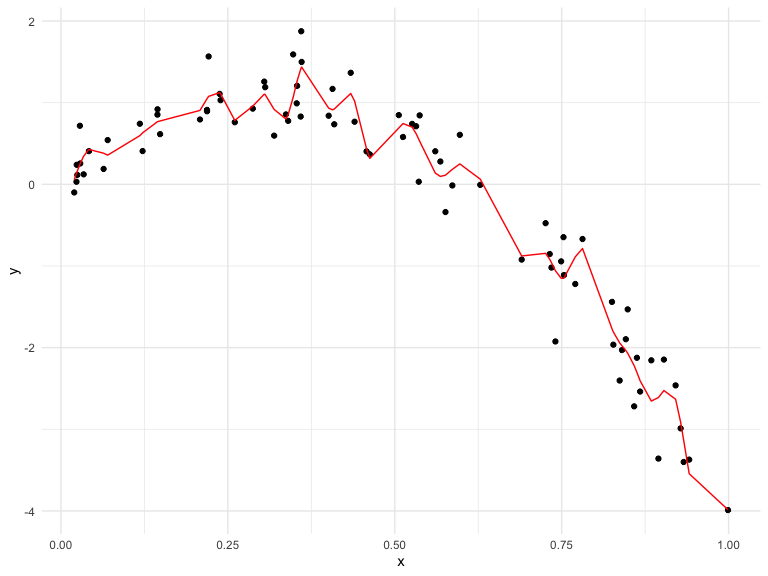
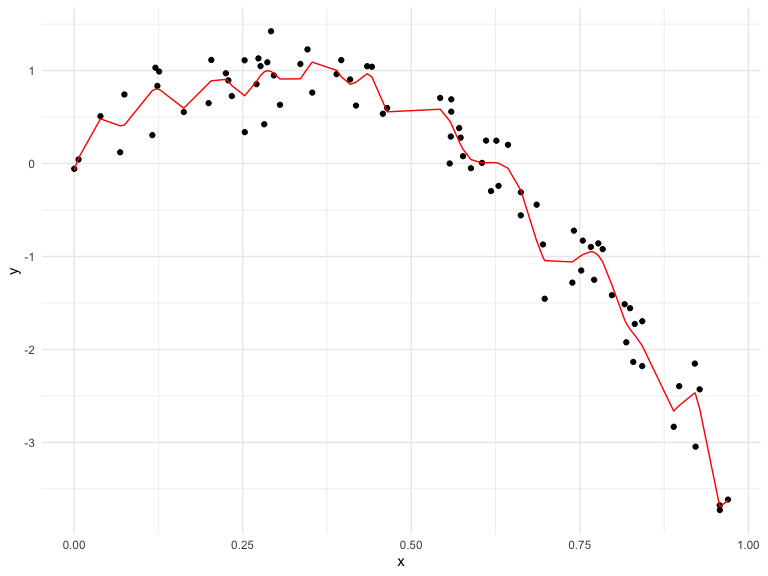
cross validation using modelr

diff --git a/cross_validation.md b/cross_validation.md
@@ -114,16 +114,112 @@ Look at prediction accuracy
 rmse(linear_mod, test_df)
 ```
 
-    ## [1] 0.7538765
+    ## [1] 0.7116577
 
 ``` r
 rmse(smooth_mod, test_df)
 ```
 
-    ## [1] 0.2374576
+    ## [1] 0.3714509
 
 ``` r
 rmse(wiggly_mod, test_df)
 ```
 
-    ## [1] 0.2538881
+    ## [1] 0.4105764
+
+## Cross validation using `modelr`
+
+``` r
+cv_df = 
+  crossv_mc(nonlin_df, 100)
+```
+
+What is happening here …
+
+``` r
+cv_df %>% 
+  pull(train) %>% .[[1]] %>% as_tibble()
+```
+
+    ## # A tibble: 79 x 3
+    ##       id      x      y
+    ##    <int>  <dbl>  <dbl>
+    ##  1     1 0.276   1.05 
+    ##  2     3 0.629  -0.240
+    ##  3     4 0.0746  0.743
+    ##  4     5 0.824  -1.56 
+    ##  5     6 0.571   0.381
+    ##  6     8 0.336   1.07 
+    ##  7     9 0.768  -1.52 
+    ##  8    10 0.346   1.23 
+    ##  9    11 0.234   0.725
+    ## 10    12 0.816  -1.51 
+    ## # … with 69 more rows
+
+``` r
+cv_df = 
+  cv_df %>% 
+  mutate(
+    train = map(train, as_tibble),
+    test = map(test, as_tibble)
+  )
+```
+
+Let’s try to fit models and get RMSEs for them
+
+``` r
+cv_df = 
+  cv_df %>% 
+  mutate(
+    linear_mod = map(.x = train, ~lm(y ~ x, data = .x)),
+    smooth_mod = map(.x = train, ~gam(y ~ s(x), data = .x)),
+    wiggly_mod = map(.x = train, ~gam(y ~ s(x, k = 30), sp = 10e-6, data = .x))
+  ) %>% 
+  mutate(
+    rmse_linear = map2_dbl(.x = linear_mod, .y = test, ~rmse(model = .x, data = .y)),
+    rmse_smooth = map2_dbl(.x = smooth_mod, .y = test, ~rmse(model = .x, data = .y)),
+    rmse_wiggly = map2_dbl(.x = wiggly_mod, .y = test, ~rmse(model = .x, data = .y))
+  )
+```
+
+what do these results say about the model choices?
+
+``` r
+cv_df %>% 
+  select(starts_with("rmse")) %>% 
+  pivot_longer(
+    everything(),
+    names_to = "model",
+    values_to = "rmse",
+    names_prefix = "rmse_"
+  ) %>% 
+  ggplot(aes(x = model, y = rmse)) +
+  geom_violin()
+```
+
+<img src="cross_validation_files/figure-gfm/unnamed-chunk-12-1.png" width="90%" />
+
+compute average
+
+``` r
+cv_df %>% 
+  select(starts_with("rmse")) %>% 
+  pivot_longer(
+    everything(),
+    names_to = "model",
+    values_to = "rmse",
+    names_prefix = "rmse_"
+  ) %>% 
+  group_by(model) %>% 
+  summarize(avg_rmse = mean(rmse))
+```
+
+    ## `summarise()` ungrouping output (override with `.groups` argument)
+
+    ## # A tibble: 3 x 2
+    ##   model  avg_rmse
+    ##   <chr>     <dbl>
+    ## 1 linear    0.743
+    ## 2 smooth    0.317
+    ## 3 wiggly    0.376
